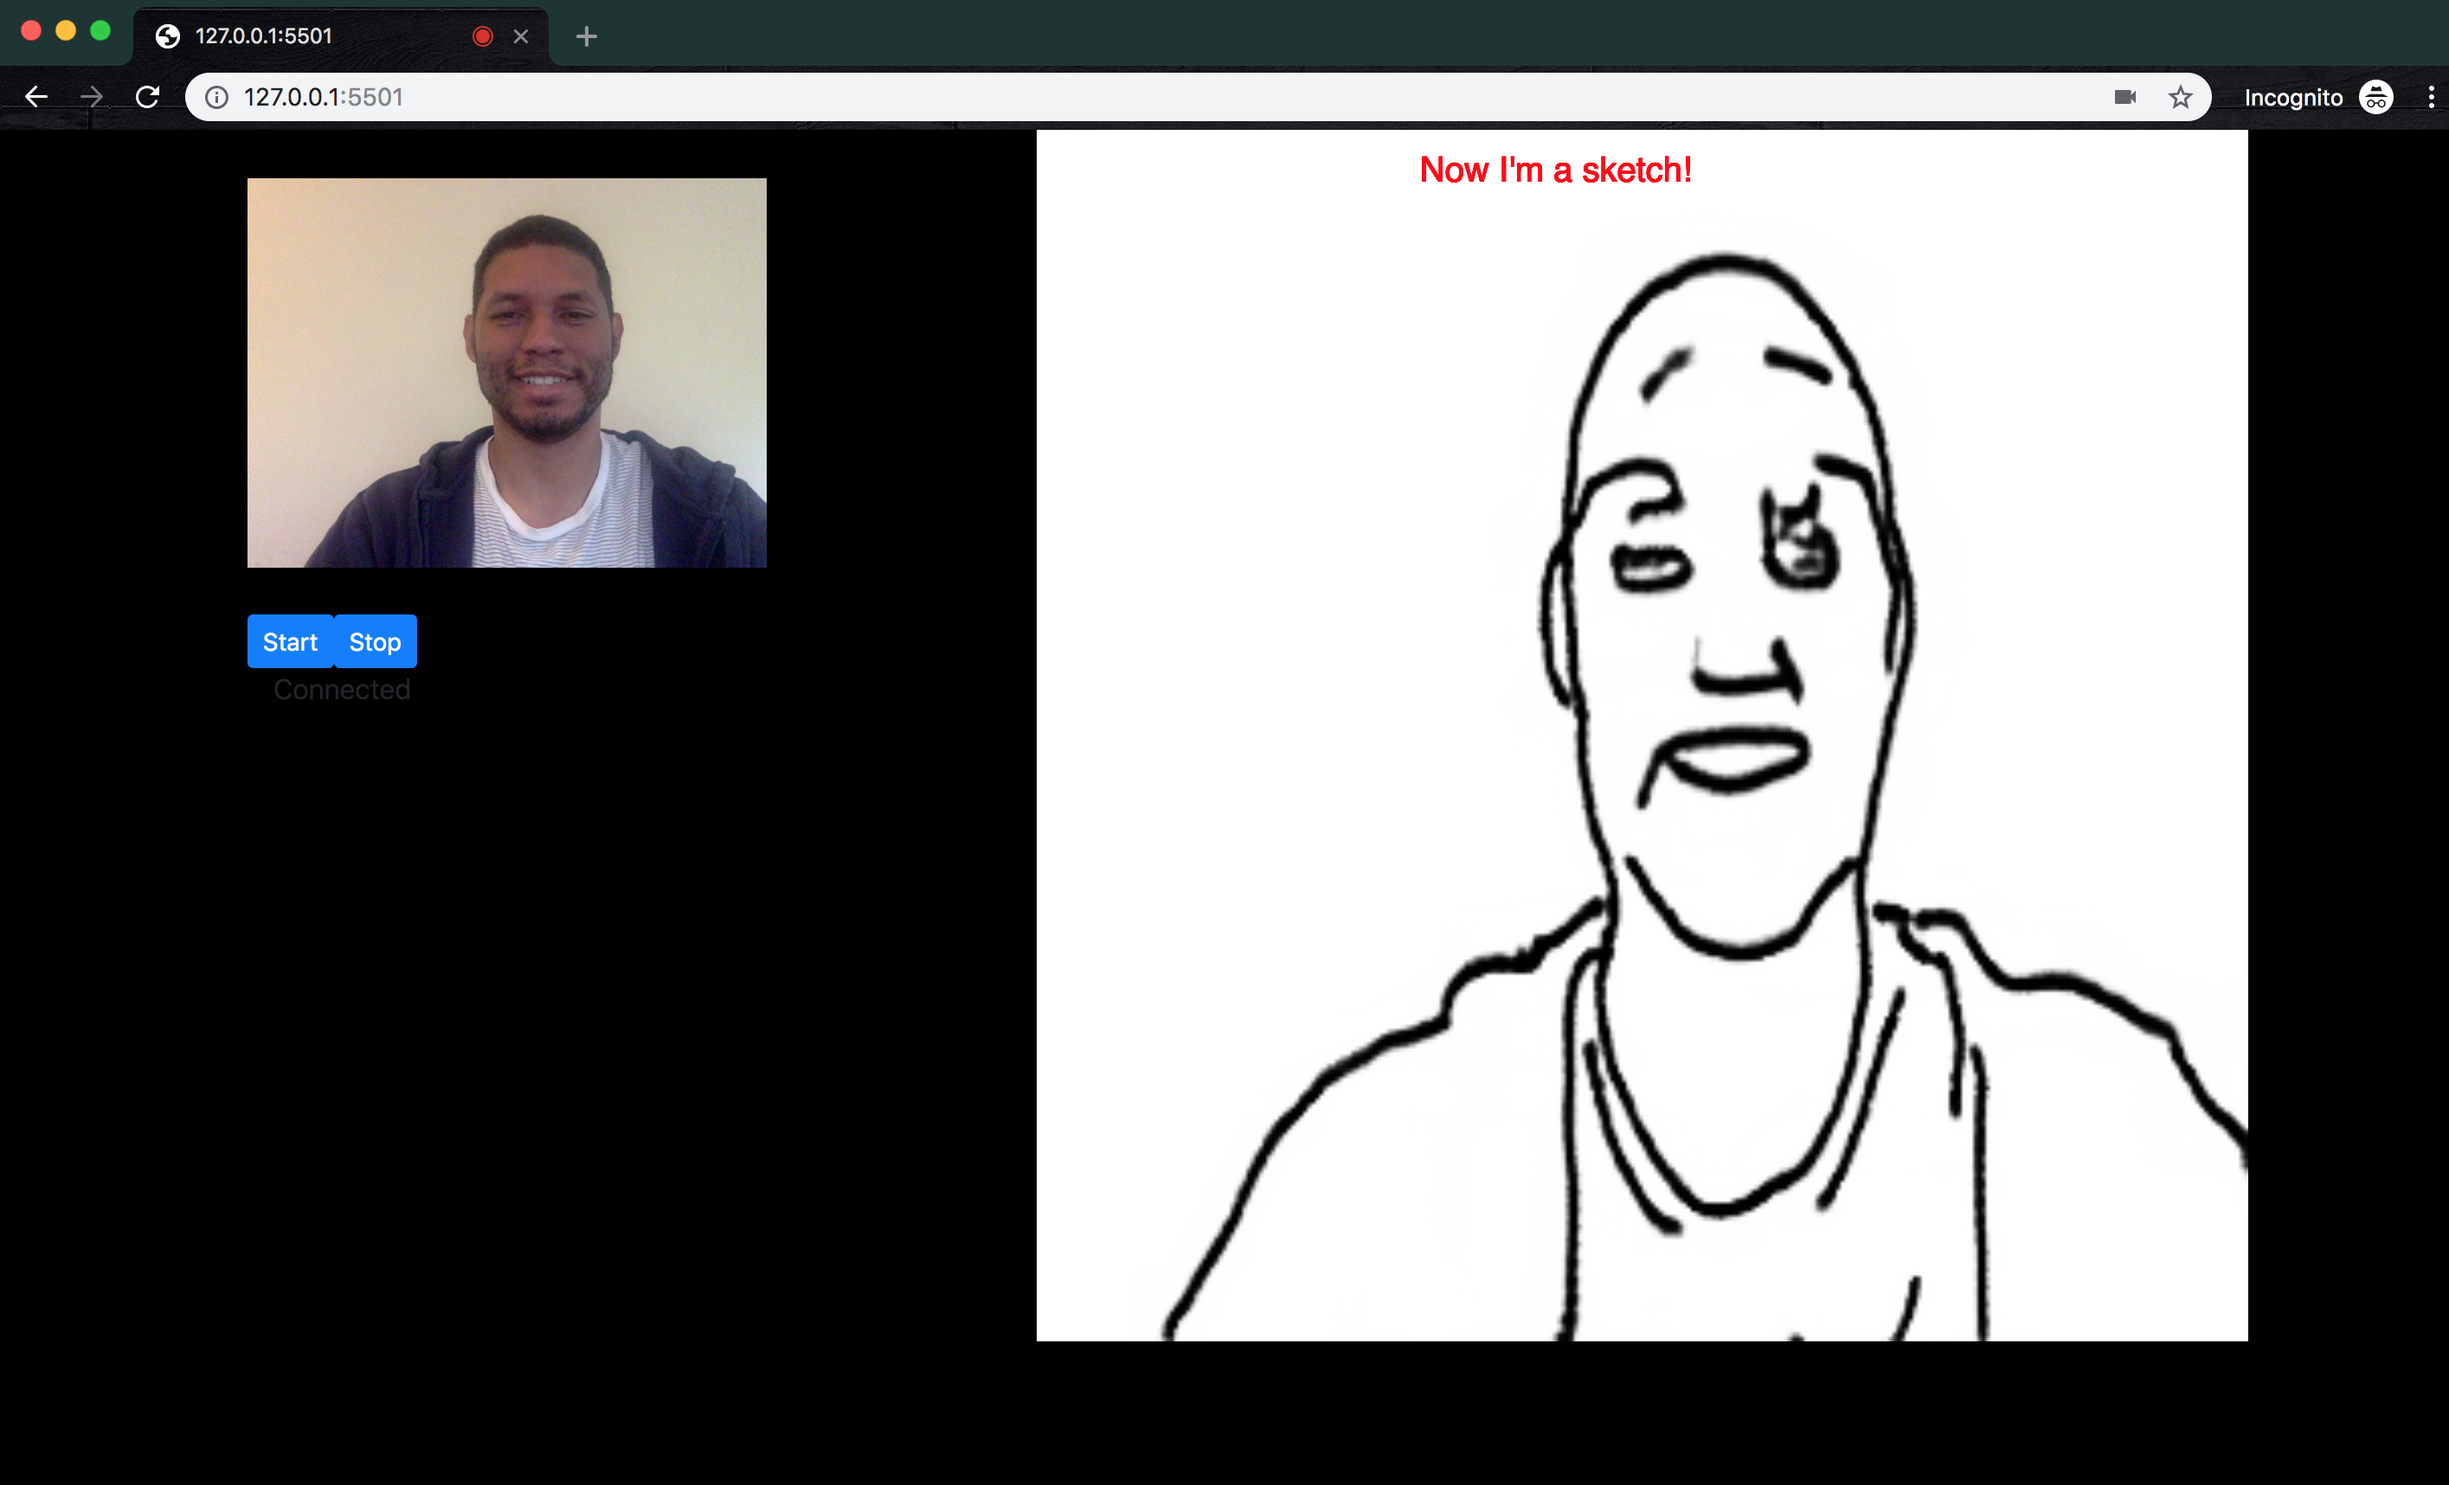
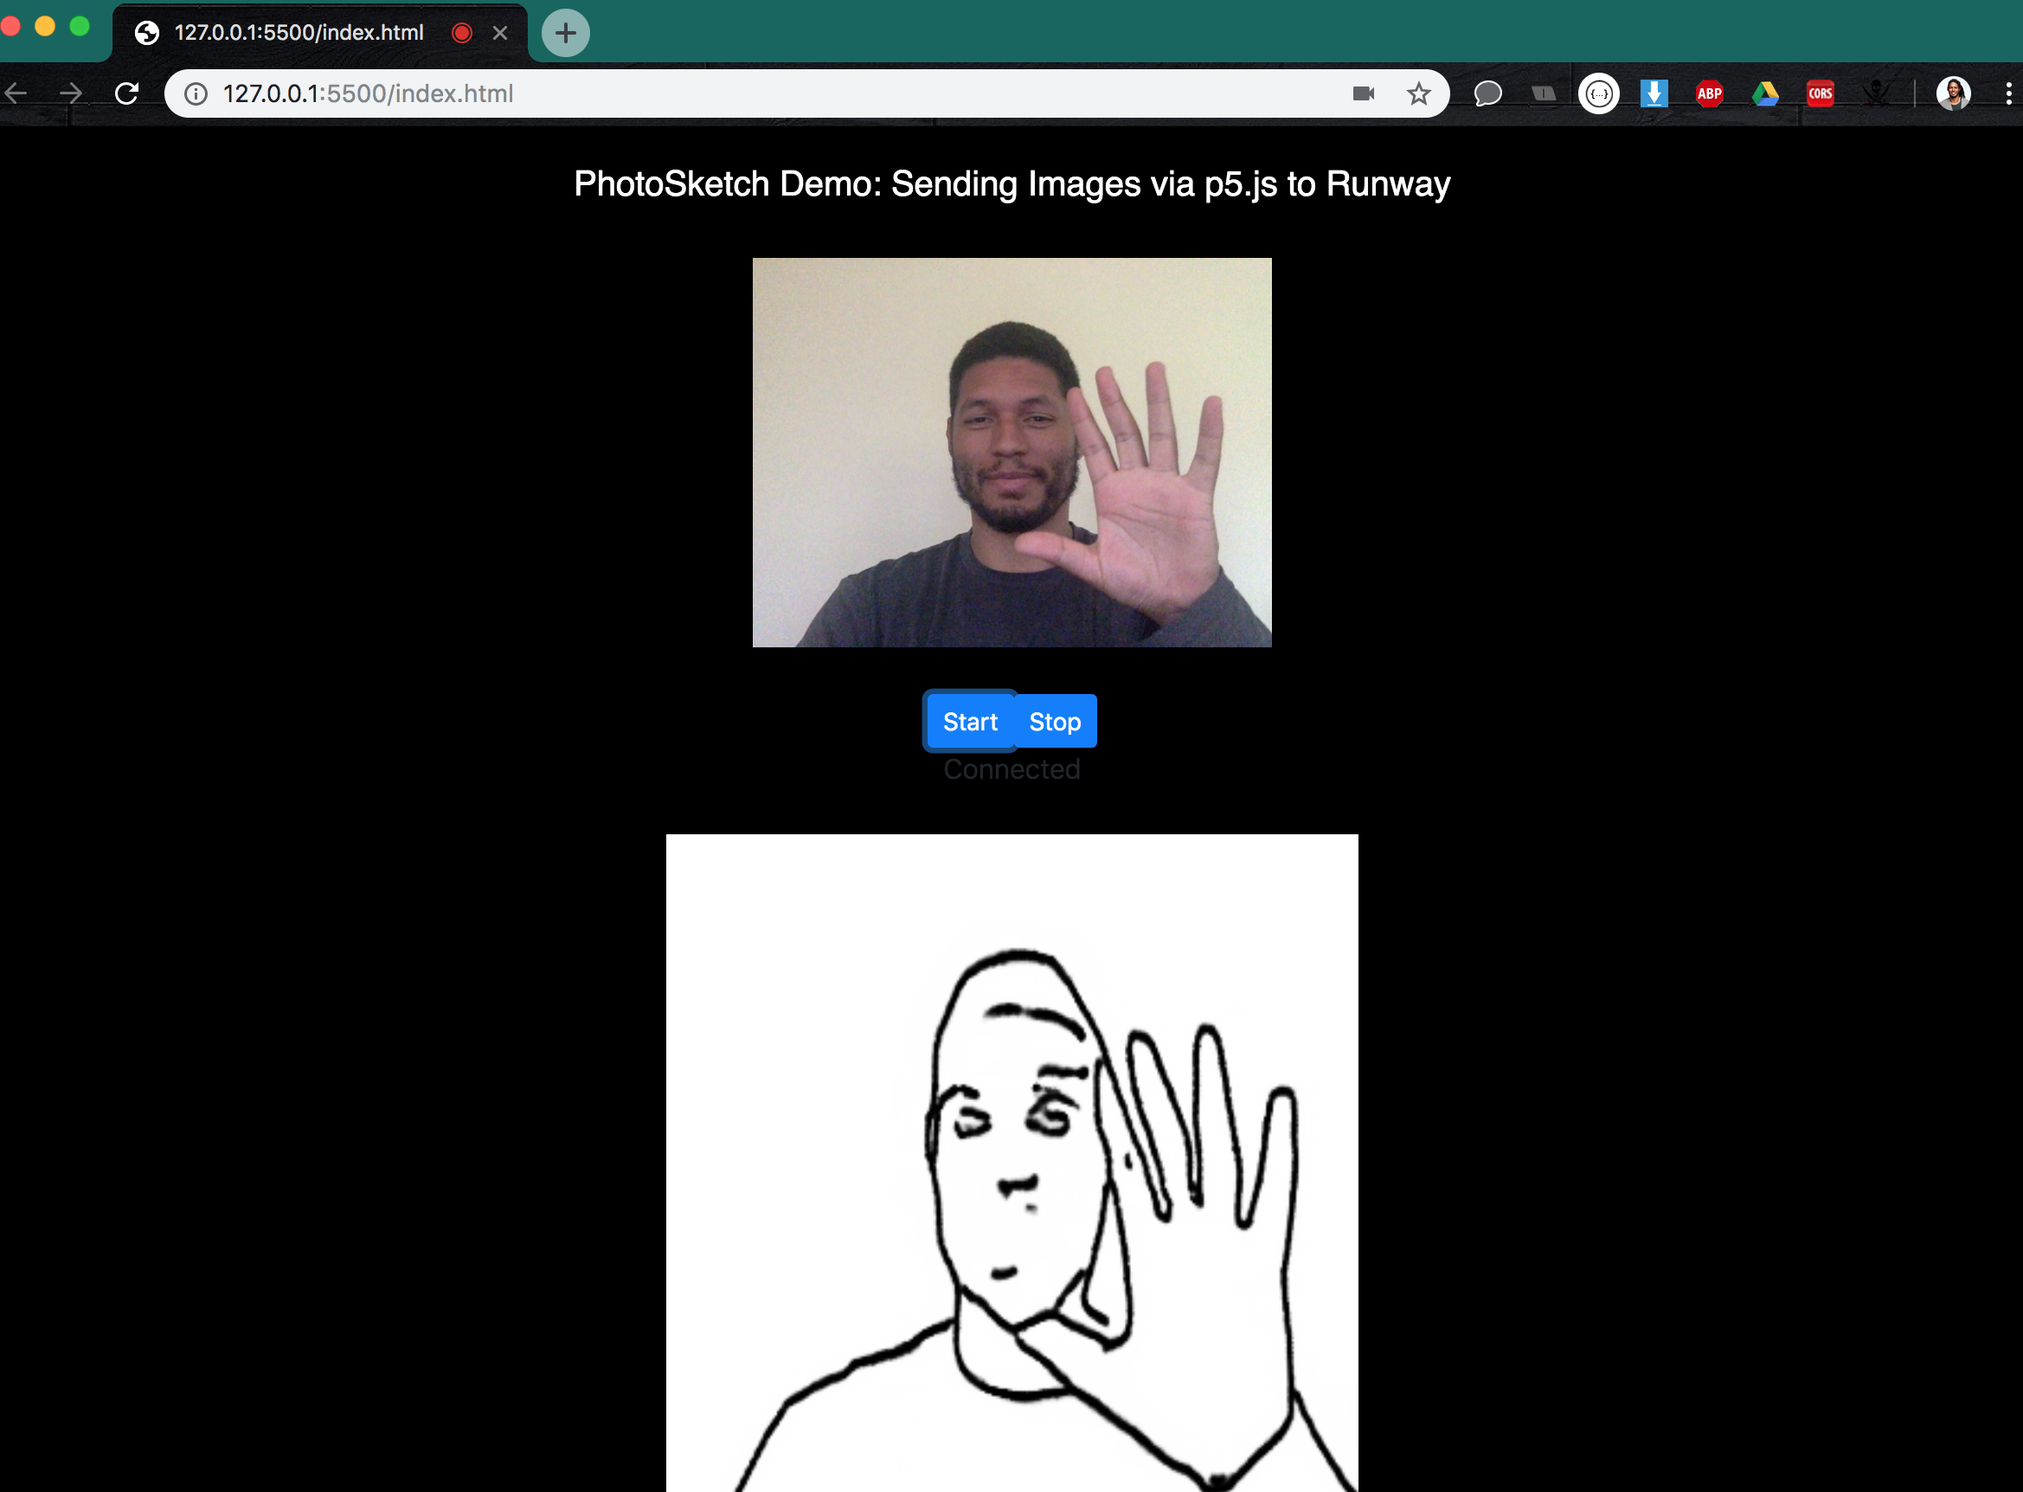
update photosketch interface

diff --git a/PhotoSketch/PhotoSketch_Websockets/index.html b/PhotoSketch/PhotoSketch_Websockets/index.html
@@ -6,25 +6,29 @@
 	  <script language="javascript" type="text/javascript" src="libraries/p5.js"></script>
 	  <script language="javascript" type="text/javascript" src="libraries/p5.dom.js"></script>
 	  <link rel="stylesheet" href="https://stackpath.bootstrapcdn.com/bootstrap/4.3.1/css/bootstrap.min.css" integrity="sha384-ggOyR0iXCbMQv3Xipma34MD+dH/1fQ784/j6cY/iJTQUOhcWr7x9JvoRxT2MZw1T" crossorigin="anonymous">
-  	
-  	<style> body {padding: 0; margin: 0;} </style>
+	  <link rel="stylesheet" href="style/main.css">
 </head>
 
 <body>
 <div class="container">
-	<div class="row">
+   <br>
+   <br>
+	<div class="row justify-content-md-center">
 		<video width="300" height="280" muted="muted"></video>
 		<!-- Canvas: Just to send base64 images to Runway -->
 		<canvas width="300" height="280" style="display: none;"></canvas>
 	</div>
-	<div class="row">
+	<div class="row justify-content-md-center">
 		<!-- Control Buttos -->
 		<button id="start" class="btn btn-sm btn-primary">Start</button>
 		<button id="stop" class="btn btn-sm btn-primary">Stop</button>
 	</div>
-		<!-- Connection status -->
+	<div class="row justify-content-md-center">
 		<p id="status">Not Connected</p>
+	</div>
+		<!-- Connection status -->
 		<div id="p5canvas"></div>
+	</div>
 </div>
   <!-- The main script -->
   <script src="photosketch.js"></script>

diff --git a/PhotoSketch/PhotoSketch_Websockets/photosketch.js b/PhotoSketch/PhotoSketch_Websockets/photosketch.js
@@ -77,20 +77,30 @@ function setup(){
     cnv.style('z-index', '-1');
     cnv.position(0, 0);
     background(0);
+    createMenu();
 }
 
-function draw(){
-    fill(255, 0, 0);
-    rect(200, 200, 20, 20);
+function createMenu(){
+  //create title
+   textSize(20);
+   fill(255);
+   textAlign(CENTER);
+   text("PhotoSketch Demo: Sending Images via p5.js to Runway", width/2, 40);
 }
 
 function newDrawing(data){
-    if(data && data.output) {
-      raw.src = data.output;
-      raw.onload = function() {
-          img = createImage(raw.width, raw.height);
-          img.drawingContext.drawImage(raw, 0, 0);
-          image(img, 600, 0, 700, 700); 
-        }
-    }
+  if(data && data.output) {
+    raw.src = data.output;
+    raw.onload = function() {
+        img = createImage(raw.width, raw.height);
+        img.drawingContext.drawImage(raw, 0, 0);
+        imageMode(CENTER)
+        image(img, width/2, height/1.3, 400, 400); 
+      }
+  }
+}
+
+function windowResized(){
+background(0);
+resizeCanvas(windowWidth, windowHeight);
 }
